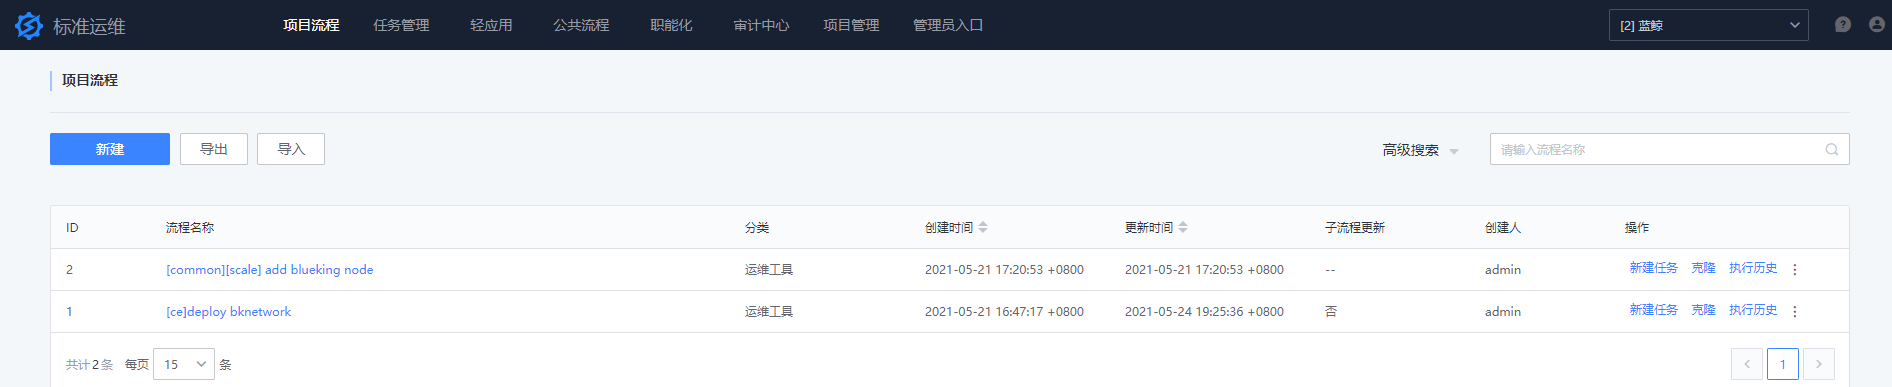
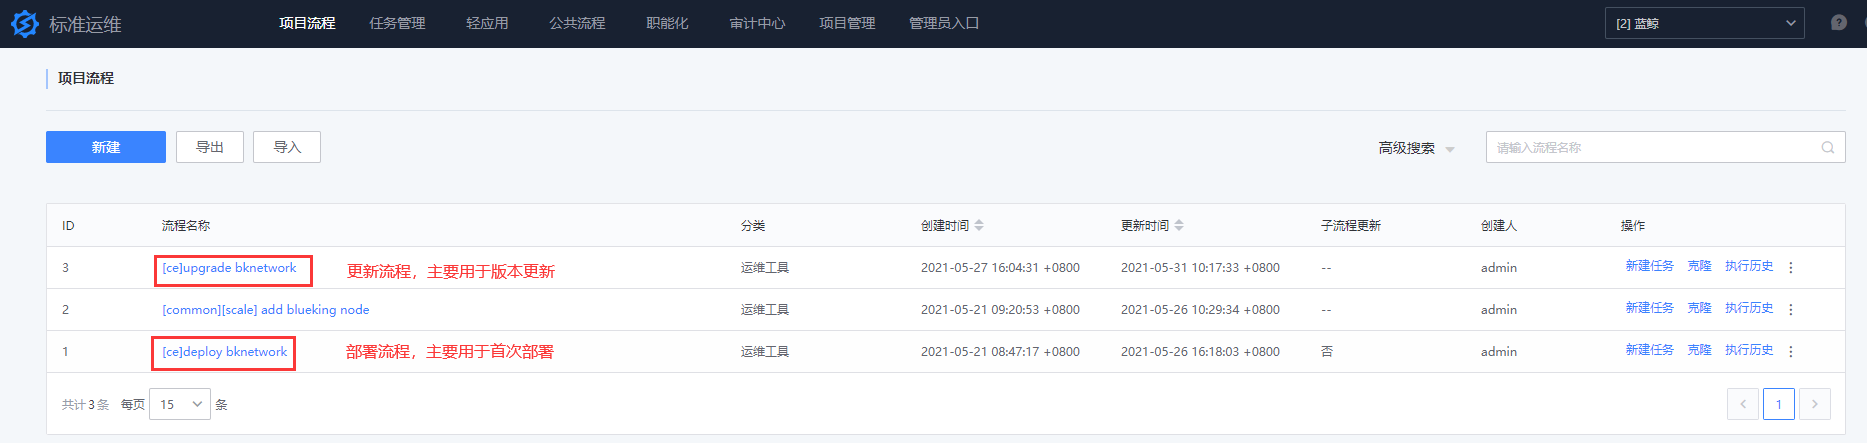
新增 网络管理维护手册

diff --git a/ZH/6.0/网络管理/日常维护/daily_main.md b/ZH/6.0/网络管理/日常维护/daily_main.md
@@ -1,0 +1,44 @@
+# 维护指引
+
+## 查看服务
+
+网络管理使用 systemd 进行托管，进程启动过程中如果有打印标准输出和标准错误日志，会定向到 systemd-journald 服务，通过 journactl 命令来查看。定位时常用的命令行参数如下：
+
+- 查看服务状态
+
+```bash
+source /data/install/utils.fc
+ssh $BK_NETWORK_IP
+
+# 服务端
+systemctl status bk-network-nop.service
+
+# 采集端
+systemctl status bk-network-nopcollector.service
+```
+
+## 进程启动日志
+
+- 查看服务端/采集端的日志
+
+```bash
+source /data/install/utils.fc
+ssh $BK_NETWORK_IP
+
+# 服务端
+journalctl -u bk-network-nop.service
+
+# 采集端
+journalctl -u bk-network-nopcollector.service
+```
+
+## 后台日志
+
+网络管理运行日志在 $BK_HOME/logs/bknetwork 下，按模块名，组件名分目录存放。
+
+```bash
+source /data/install/utils.fc
+ssh $BK_NETWORK_IP
+
+cd $BK_HOME/logs/bknetwork
+```

diff --git a/ZH/6.0/网络管理/日常维护/更新指引/update.md b/ZH/6.0/网络管理/日常维护/更新指引/update.md
@@ -1,0 +1,18 @@
+# 更新指引
+
+选择 `[ce]upgrade bknetwork` 流程模版进行新建任务，根据提示填写相关信息。确认填写信息无误后，开始执行任务。
+
+填写信息包括：
+
+- `ctrl_ip`：蓝鲸环境的中控机 IP
+- `whole_pkg_path`：网络管理平台整包在中控机的绝对路径
+
+该部署流程主要相关操作：
+
+- 将网络管理安装包更新至指定目录
+- 生成网络管理更新脚本
+- 更新网络管理
+
+![update](../../assets/update.png)
+
+更新完成后，可访问网络管理平台是否正常。

diff --git a/ZH/6.0/网络管理/SUMMARY.md b/ZH/6.0/网络管理/SUMMARY.md
@@ -10,3 +10,6 @@
 * [部署指南](部署指南/deploy.md)
 * [快速入门](快速入门/Guide.md)
 * [场景案例](场景案例/scene.md)
+* [日常维护]()
+    * [更新指引](日常维护/更新指引/update.md)
+    * [维护指引](日常维护/daily_main.md)

diff --git a/ZH/6.0/网络管理/部署指南/deploy.md b/ZH/6.0/网络管理/部署指南/deploy.md
@@ -40,7 +40,7 @@ ssh-copy-id <ip>
 ```bash
 [root@VM-centos ~]# tar tf bk_network_2.0.2.tgz
 bknetwork_2.0.2.tgz
-bk_sops_bknetwork_20210528174623.dat
+bk_sops_bknetwork_20210531102134.dat
 ```
 
 ### 5. 将网络管理标准运维流程模版导入至标准运维
